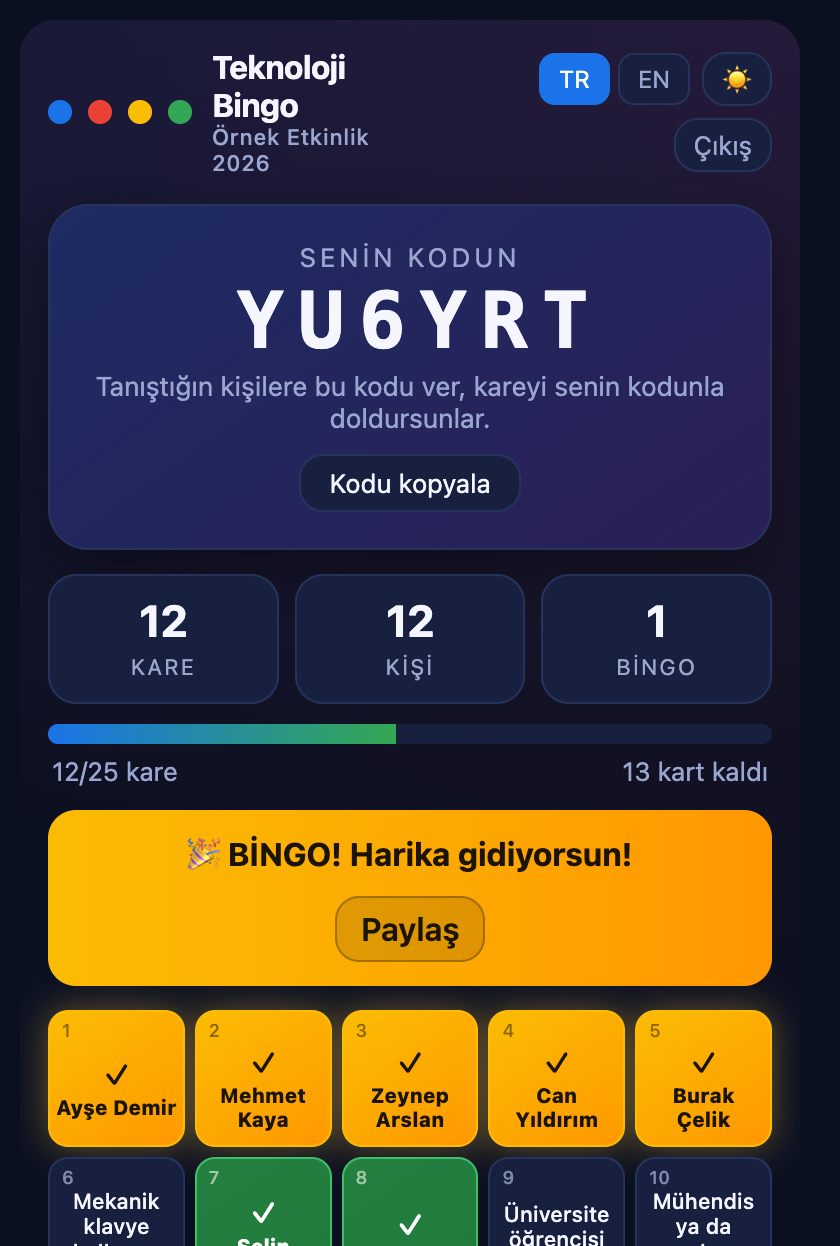
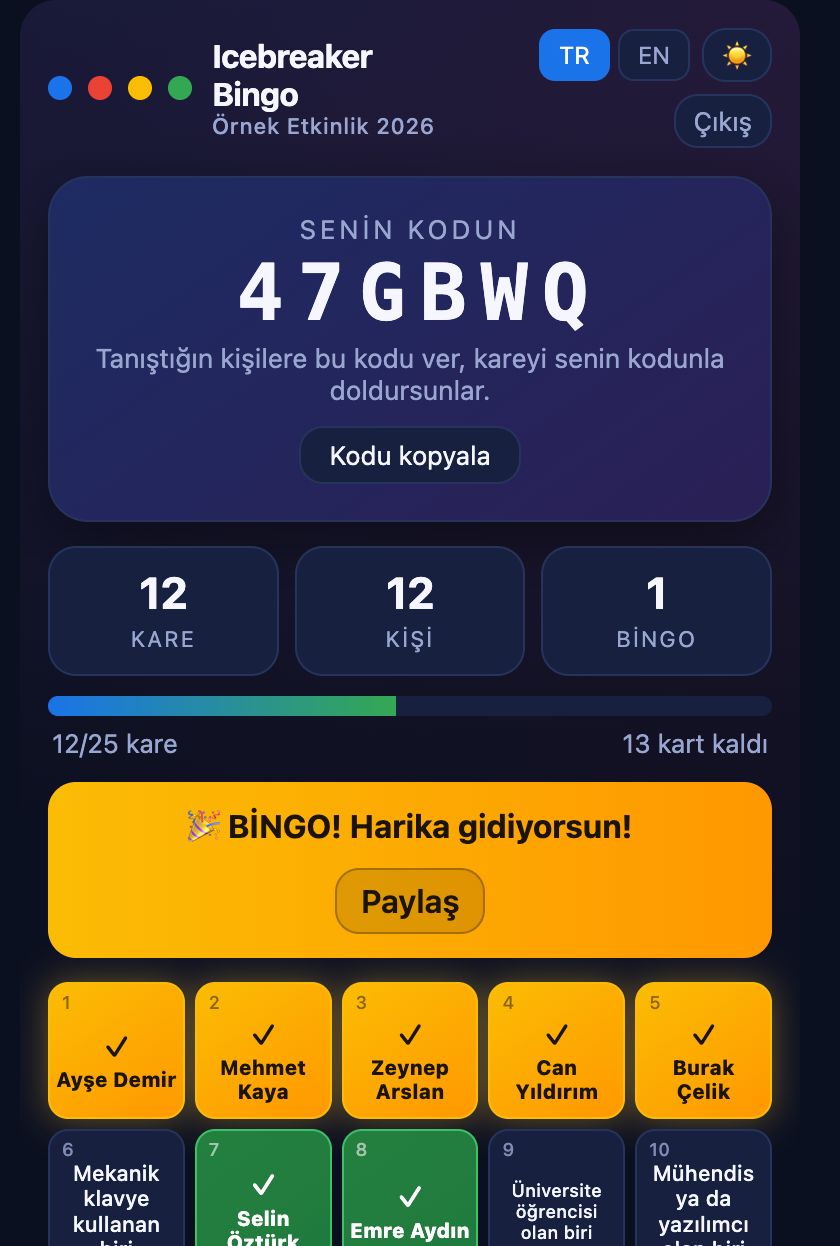
Adi Icebreaker Bingo olarak tutarli hale getir, README'ye iletisim ekle
- Uygulama, README, paket adi ve sekme basligi: Icebreaker Bingo
- Basligi gosteren ekran goruntuleri yeni adla yenilendi
- README sonuna soru/sorunlar bolumu (GitHub issue + LinkedIn)

Changed region(s): [[0.031, 0.0, 0.9595, 1.0]]

diff --git a/src/i18n-dict.js b/src/i18n-dict.js
@@ -1,7 +1,7 @@
 // Ceviriler (tr/en). Anahtarlar iki dilde de ayni olmali: test/unit.mjs kontrol eder.
 export const dict = {
   tr: {
-    appName: "Teknoloji Bingo",
+    appName: "Icebreaker Bingo",
     winnersShow: "Gösterilecek kişi sayısı",
     winMode: "Kazanma kuralı", winFull: "Tüm kartları ilk dolduran kazanır", winLine: "İlk bingo (satır/sütun/çapraz) yapan kazanır",
     colDone: "Tamamladı", cardsLeft: "{n} kart kaldı", completedShort: "Hepsi tamam! 🏆",
@@ -106,7 +106,7 @@ export const dict = {
     delConfirmUsed: "Bu karte {n} kişi doldurmuş. Yine de silinsin mi?",
   },
   en: {
-    appName: "Tech Bingo",
+    appName: "Icebreaker Bingo",
     winnersShow: "Number of people shown",
     winMode: "Winning rule", winFull: "First to fill every square wins", winLine: "First bingo (row/column/diagonal) wins",
     colDone: "Completed", cardsLeft: "{n} squares left", completedShort: "All done! 🏆",

diff --git a/index.html b/index.html
@@ -3,7 +3,7 @@
   <head>
     <meta charset="UTF-8" />
     <meta name="viewport" content="width=device-width, initial-scale=1.0" />
-    <title>Teknoloji Bingo</title>
+    <title>Icebreaker Bingo</title>
   </head>
   <body>
     <div id="root"></div>

diff --git a/README.md b/README.md
@@ -1,4 +1,4 @@
-# 🎯 Teknoloji Bingo
+# 🎯 Icebreaker Bingo
 
 Etkinliklerde katılımcıların birbiriyle tanışmasını sağlayan, Firebase tabanlı bir bingo oyunu.
 
@@ -413,3 +413,13 @@ npm run deploy                       # builds rules from the template, builds th
 5. If you use a custom domain, add it to **Authentication → Settings → Authorized domains**.
 
 **How it works:** every user gets a unique 6-character code; filling a square requires another person's code. All checks (code exists, not your own, per-person usage limit, game open/closed, time window) run in Firestore security rules, so they cannot be bypassed from the browser. Cloud Functions are not needed, so it fits Firebase's free Spark plan.
+
+---
+
+## 💬 Soru ve sorunlar / Questions & issues
+
+Bir hata bulduysanız ya da öneriniz varsa GitHub'da **issue** açabilirsiniz. Sorularınız ve geri bildirimleriniz için LinkedIn'den ulaşabilirsiniz:
+
+**[LinkedIn](https://www.linkedin.com/in/huseyinerenceykel/)**
+
+*Found a bug or have a suggestion? Open an **issue** on GitHub. For questions and feedback you can reach out on [LinkedIn](https://www.linkedin.com/in/huseyinerenceykel/).*
